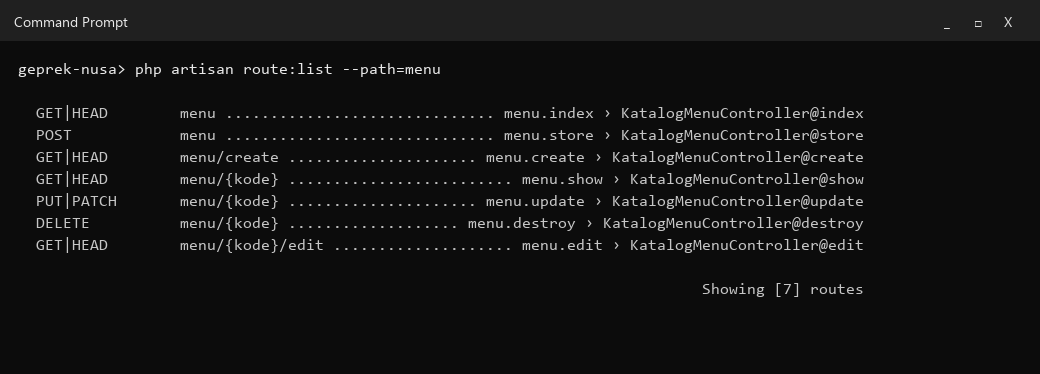
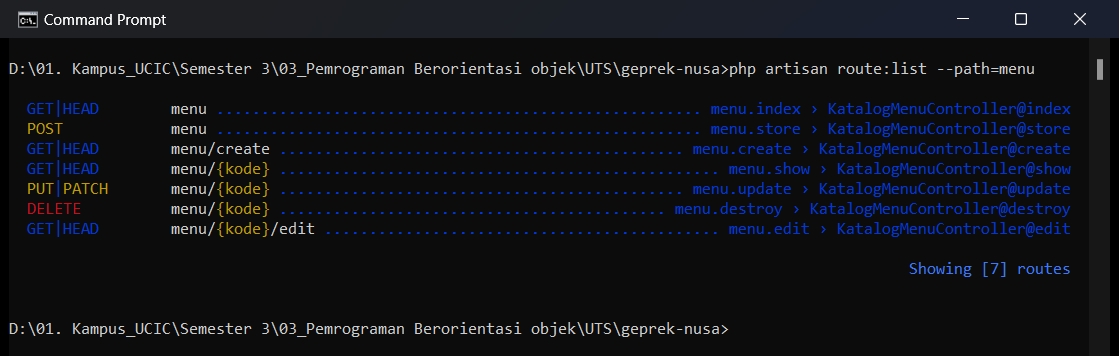
Ganti tangkapan layar terminal dengan Command Prompt asli dan tampilkan gambar di README

diff --git a/README.md b/README.md
@@ -1,9 +1,19 @@
-# Katalog Menu Geprek Nusa
+<p align="center">
+  <img src="public/img/logo-geprek.jpg" alt="Geprek Nusa" width="130">
+</p>
 
-Rancangan awal Capstone Project untuk Ujian Tengah Semester mata kuliah
-Pemrograman Berorientasi Objek (TI033015). Aplikasi ini mengelola katalog menu
-sebuah jaringan outlet ayam geprek: satu baris katalog mewakili satu menu pada
-satu outlet, lengkap dengan sisa porsi, harga, dan kondisinya.
+<h1 align="center">Katalog Menu Geprek Nusa</h1>
+
+<p align="center">
+  Rancangan awal Capstone Project untuk UTS Pemrograman Berorientasi Objek (TI033015)<br>
+  Muhammad Arif Triyana &middot; 20251020011
+</p>
+
+---
+
+Aplikasi ini mengelola katalog menu sebuah jaringan outlet ayam geprek. Satu
+baris katalog mewakili satu menu pada satu outlet, lengkap dengan sisa porsi,
+harga, dan kondisinya.
 
 Studi kasus diambil dari Capstone Project
 [dfc-cirebon](https://github.com/Kharisdestianmaulana-hub/dfc-cirebon), yaitu
@@ -13,13 +23,6 @@ variabel, komponen tampilan, dan seluruh berkas kode berbeda dari proyek
 capstone tersebut. Yang diambil hanya tema besarnya, yaitu pengelolaan menu pada
 beberapa outlet, supaya pekerjaan UTS bisa dilanjutkan menjadi capstone tanpa
 memulai dari awal lagi.
-
-## Identitas
-
-- Nama: Muhammad Arif Triyana
-- NIM: 20251020011
-- Mata kuliah: Pemrograman Berorientasi Objek (TI033015)
-- Dosen: Hilman Lesmana, S.T., M.S.F.
 
 ## Ketentuan yang diikuti
 
@@ -83,40 +86,99 @@ tidak tampil kosong pada penggunaan pertama.
 
 ## Tangkapan layar
 
-Seluruh tangkapan layar di folder `docs` diambil dari aplikasi yang benar-benar
-berjalan, bukan gambar hasil rekayasa.
+Seluruh gambar di bawah diambil dari aplikasi yang benar-benar berjalan pada
+mesin sendiri: peramban sungguhan, jendela Command Prompt sungguhan, dan jendela
+VS Code sungguhan. Tidak ada gambar hasil rekayasa.
 
-| Berkas | Isi |
+### Halaman aplikasi
+
+**1. Halaman daftar**
+
+![Halaman daftar](docs/web-01-daftar.png)
+
+**2. Pencarian menu**
+
+![Pencarian](docs/web-02-cari.png)
+
+**3. Form tambah sebelum diisi**
+
+![Form tambah kosong](docs/web-03-form-tambah.png)
+
+**4. Form tambah setelah diisi**
+
+![Form tambah terisi](docs/web-04-form-terisi.png)
+
+**5. Baris baru masuk katalog**
+
+![Setelah tambah](docs/web-05-setelah-tambah.png)
+
+**6. Halaman detail**
+
+![Detail menu](docs/web-06-detail.png)
+
+**7. Form ubah terisi nilai lama**
+
+![Form ubah](docs/web-07-form-ubah.png)
+
+**8. Perubahan tersimpan**
+
+![Setelah ubah](docs/web-08-setelah-ubah.png)
+
+**9. Validasi silang menolak data**
+
+![Validasi](docs/web-09-validasi.png)
+
+**10. Kode yang tidak ada di katalog**
+
+![Kode tidak ada](docs/web-10-tidak-ada.png)
+
+**11. Keadaan sebelum penghapusan**
+
+![Sebelum hapus](docs/web-11-sebelum-hapus.png)
+
+**12. Dialog konfirmasi hapus**
+
+![Konfirmasi hapus](docs/web-12-konfirmasi-hapus.png)
+
+**13. Baris terhapus**
+
+![Setelah hapus](docs/web-13-setelah-hapus.png)
+
+### Kode sumber
+
+| Berkas route | Controller bagian atas |
 | --- | --- |
-| `code-01-rute.png` | Berkas `routes/web.php` |
-| `code-02-controller.png` | Controller bagian atas dan method `index` |
-| `code-03-controller-index.png` | Method `index` dan `create` |
-| `code-04-controller-simpan.png` | Method `store` dan `show` |
-| `code-05-controller-ubah.png` | Method `update` dan `destroy` |
-| `code-06-controller-validasi.png` | Aturan validasi dan pesan kesalahan |
-| `code-07-layout.png` | Layout bersama |
-| `code-08-index.png` | Halaman daftar bagian atas |
-| `code-09-index-tabel.png` | Tabel daftar beserta kolom wajib |
-| `code-10-create.png` | Form tambah |
-| `code-11-show.png` | Halaman detail |
-| `code-12-edit.png` | Form ubah dengan `@method('PUT')` |
-| `code-13-css.png` | Variabel warna dan dasar tampilan |
-| `term-01-rute.png` | Keluaran `php artisan route:list --path=menu` |
-| `term-02-versi.png` | Versi PHP dan Laravel |
-| `term-03-uji-http.png` | Uji status HTTP seluruh halaman |
-| `web-01-daftar.png` | Halaman daftar apa adanya |
-| `web-02-cari.png` | Pencarian menu |
-| `web-03-form-tambah.png` | Form tambah masih kosong |
-| `web-04-form-terisi.png` | Form tambah terisi |
-| `web-05-setelah-tambah.png` | Baris baru masuk katalog |
-| `web-06-detail.png` | Halaman detail |
-| `web-07-form-ubah.png` | Form ubah terisi nilai lama |
-| `web-08-setelah-ubah.png` | Perubahan tersimpan |
-| `web-09-validasi.png` | Validasi silang menolak data |
-| `web-10-tidak-ada.png` | Kode yang tidak ada di katalog |
-| `web-11-sebelum-hapus.png` | Keadaan sebelum penghapusan |
-| `web-12-konfirmasi-hapus.png` | Dialog konfirmasi hapus |
-| `web-13-setelah-hapus.png` | Baris terhapus dari katalog |
+| ![routes/web.php](docs/code-01-rute.png) | ![controller](docs/code-02-controller.png) |
+
+| Method index dan create | Method store dan show |
+| --- | --- |
+| ![index](docs/code-03-controller-index.png) | ![store](docs/code-04-controller-simpan.png) |
+
+| Method update dan destroy | Aturan validasi |
+| --- | --- |
+| ![update](docs/code-05-controller-ubah.png) | ![validasi](docs/code-06-controller-validasi.png) |
+
+| Layout bersama | Halaman daftar bagian atas |
+| --- | --- |
+| ![layout](docs/code-07-layout.png) | ![index](docs/code-08-index.png) |
+
+| Tabel katalog | Form tambah |
+| --- | --- |
+| ![tabel](docs/code-09-index-tabel.png) | ![tambah](docs/code-10-create.png) |
+
+| Halaman detail | Form ubah |
+| --- | --- |
+| ![detail](docs/code-11-show.png) | ![ubah](docs/code-12-edit.png) |
+
+![Berkas CSS](docs/code-13-css.png)
+
+### Terminal
+
+![Daftar route](docs/term-01-rute.png)
+
+![Versi PHP dan Laravel](docs/term-02-versi.png)
+
+![Uji status HTTP](docs/term-03-uji-http.png)
 
 ## Catatan
 
